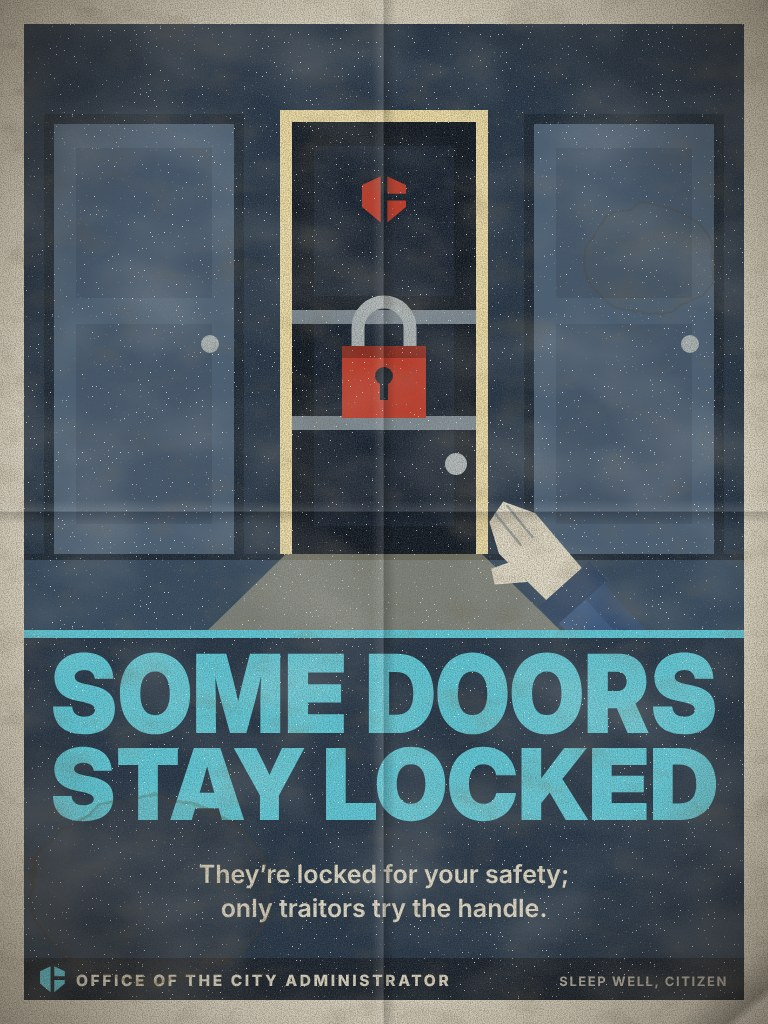
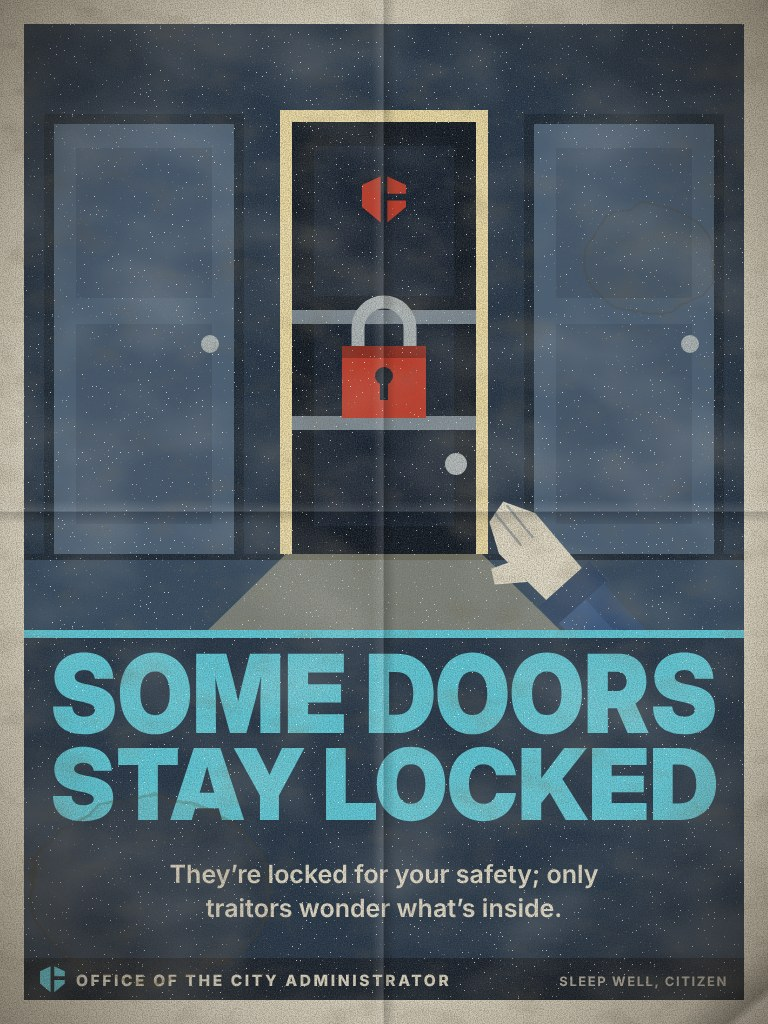
The locked doors poster: the owner's words, "only traitors wonder what's inside", in the code and on the picture
Claude-Session: https://claude.ai/code/session_01Y8SXQmVgVp7ZamRAFg58MA

Changed region(s): [[0.2188, 0.8438, 0.7812, 0.9062]]

diff --git a/PLAYER_TEXT.md b/PLAYER_TEXT.md
@@ -4,9 +4,9 @@ Made by `python3 _dev/player_text.py` from the code itself, so it can be made ag
 
 **How to correct it:** change the words inside the quotes, then send the whole file back. Leave everything outside the quotes as it is (that's how each line is found in the code again). Keep any {name} or %d / %s parts: the game fills those in. A line you don't touch stays as it is. To drop a line altogether, write DELETE inside its quotes. A note for me about a line can go after it on the same line, starting with NOTE:.
 
-Made from version f03ac15. Admin-only console messages and log lines are left out.
+Made from version b5697c2. Admin-only console messages and log lines are left out.
 
-12914 lines, from 355 files.
+12919 lines, from 356 files.
 
 ## Contents
 
@@ -154,6 +154,7 @@ Made from version f03ac15. Admin-only console messages and log lines are left ou
 - [sv_livingcity.lua](#svlivingcitylua-svlivingcitylua) (51)
 - [the actions menu (server side)](#the-actions-menu-server-side-svlivingcityactionslua) (8)
 - [acts (server). See sh_livingcity_acts.lua for the list](#acts-server-see-shlivingcityactslua-for-the-list-svlivingcityactslua) (7)
+- [the hunt for whoever tried to kill the Administrator](#the-hunt-for-whoever-tried-to-kill-the-administrator-svlivingcityadminhuntlua) (5)
 - [the would-be assassin is hers to question (the owner, 16 November)](#the-would-be-assassin-is-hers-to-question-the-owner-16-november-svlivingcityadminquestioninglua) (13)
 - [the Administrator's security (the owner, 15 November)](#the-administrators-security-the-owner-15-november-svlivingcityadminsecuritylua) (8)
 - [testing tools for admins](#testing-tools-for-admins-svlivingcityadmintoolslua) (50)
@@ -5331,81 +5332,81 @@ Made from version f03ac15. Admin-only console messages and log lines are left ou
 
 > Note for you (not shown in game): part of: cop provoked
 
-- "[Civil Protection] The Civil Protection unit shoves you back. Move along."  (chat message, line 2328)
-- "[Civil Protection] A crack across the ribs with the stick. Last warning."  (chat message, line 2329)
-- "[Civil Protection] You were warned. Obstructing Civil Protection."  (chat message, line 2333)
-- "Obstructing Civil Protection"  (text, line 2334)
+- "[Civil Protection] The Civil Protection unit shoves you back. Move along."  (chat message, line 2487)
+- "[Civil Protection] A crack across the ribs with the stick. Last warning."  (chat message, line 2488)
+- "[Civil Protection] You were warned. Obstructing Civil Protection."  (chat message, line 2492)
+- "Obstructing Civil Protection"  (text, line 2493)
 
 > Note for you (not shown in game): A city scanner that has a fugitive in sight (wanted, or a hunted rebel who isn't passing as a citizen) tells the units where they are: a flash, a report to every unit on duty, and the nearby units come after them.
 
-- "a wanted citizen"  (text, line 2491)
+- "a wanted citizen"  (text, line 2650)
 
 > Note for you (not shown in game): part of: scanner tip off
 
-- "A scanner's flash. You've been photographed, and Civil Protection has the picture."  (chat message, line 2496)
-- "[CP net] Scanner report: %s%s."  (message, line 2500)
+- "A scanner's flash. You've been photographed, and Civil Protection has the picture."  (chat message, line 2655)
+- "[CP net] Scanner report: %s%s."  (message, line 2659)
 
 > Note for you (not shown in game): part of: start
 
-- "This map has no AI nodes or navmesh and nothing placed yet. Lay some path nodes or points with the Miscount Editor, then start again."  (chat message, line 2736)
-- "Started. Map nav: %d spots (%s). Your layout: %d points, %d path nodes."  (message, line 2743)
+- "This map has no AI nodes or navmesh and nothing placed yet. Lay some path nodes or points with the Miscount Editor, then start again."  (chat message, line 2895)
+- "Started. Map nav: %d spots (%s). Your layout: %d points, %d path nodes."  (message, line 2902)
 
 > Note for you (not shown in game): part of: stop
 
-- "Stopped and removed all Miscount NPCs."  (chat message, line 2760)
+- "Stopped and removed all Miscount NPCs."  (chat message, line 2919)
 
 > Note for you (not shown in game): part of: spawn test walker
 
-- "your path network (%d hops)"  (message, line 2789)
-- "the map's own navigation"  (text, line 2789)
-- "Test walker heading out using {how}."  (chat message, line 2790)
+- "your path network (%d hops)"  (message, line 2948)
+- "the map's own navigation"  (text, line 2948)
+- "Test walker heading out using {how}."  (chat message, line 2949)
 
 > Note for you (not shown in game): part of: test arrived
 
-- "Test walker arrived in %.1f seconds. This route works."  (message, line 2795)
+- "Test walker arrived in %.1f seconds. This route works."  (message, line 2954)
 
 > Note for you (not shown in game): part of: test stuck
 
-- "Test walker stuck at %s on hop %d/%d"  (message, line 2802)
-- "Test walker got stuck after %.1f seconds, on hop %d of %d (marked red)."  (message, line 2803)
-- "Add a path node here and link it toward the destination, or check for a door it can't open."  (text, line 2806)
+- "Test walker stuck at %s on hop %d/%d"  (message, line 2961)
+- "Test walker got stuck after %.1f seconds, on hop %d of %d (marked red)."  (message, line 2962)
+- "Add a path node here and link it toward the destination, or check for a door it can't open."  (text, line 2965)
 
 > Note for you (not shown in game): guarding a supply drop (sv_livingcity_convoy.lua): he answers, without leaving his post
 
-- "[Civil Protection] "Supply point secure. Hold the perimeter until the load moves on.""  (chat message, line 3034)
+- "[Civil Protection] "Supply point secure. Hold the perimeter until the load moves on.""  (chat message, line 3194)
 
 > Note for you (not shown in game): pressing E on something
 
-- "[Civil Protection] "{Pick}""  (chat message, line 3038)
+- "[Civil Protection] "{Pick}""  (chat message, line 3198)
 
 > Note for you (not shown in game): a Civil Protection player stops a citizen: they freeze and apologise
 
-- "[Civil Protection] Stopped. With the Arrest Baton out: R to search them, right click to detain."  (chat message, line 3056)
+- "[Civil Protection] Stopped. With the Arrest Baton out: R to search them, right click to detain."  (chat message, line 3216)
 
 > Note for you (not shown in game): a crime, and every cop comes for you (a scanner is city property, not a person) (one report per few seconds for a scanner: every bullet of a burst isn't a new offence)
 
-- "Damaging city property"  (text, line 3113)
-- "Assaulting Civil Protection"  (text, line 3116)
-- "Assaulting a citizen"  (text, line 3116)
+- "Damaging city property"  (text, line 3273)
+- "Assaulting Civil Protection"  (text, line 3276)
+- "Assaulting a citizen"  (text, line 3276)
 
 > Note for you (not shown in game): Console commands
 
-- "Civil Protection has stood down."  (chat message, line 3152)
+- "Civil Protection has stood down."  (chat message, line 3312)
 
 > Note for you (not shown in game): the console command lc_addpoint
 
-- "Kinds: idle, sit, sitchair, lean, queue, patrol, checkpoint, spawn, cell, release"  (chat message, line 3159)
-- "Added %s point (%d total on this map)."  (message, line 3162)
+- "Kinds: idle, sit, sitchair, lean, queue, patrol, checkpoint, spawn, cell, release"  (chat message, line 3319)
+- "Added %s point (%d total on this map)."  (message, line 3322)
 
 > Note for you (not shown in game): the console command lc_removepoint
 
-- "Removed nearest {kind} point."  (text, line 3168)
-- "No point within 150 Civil Protection units."  (chat message, line 3168)
+- "Removed nearest {kind} point."  (text, line 3328)
+- "No point within 150 Civil Protection units."  (chat message, line 3328)
 
 > Note for you (not shown in game): the console command lc_status
 
-- "citizens %d/%d, cops %d/%d, soldiers %d/%d, scanners %d/%d, zombies %d/%d, rebels %d/%d"  (message, line 3179)
-- "map nav %d (%s) \| points %d \| path nodes %d, links %d, unlinked %d \| zones %d \| lines %d \| patrol beats %d"  (message, line 3183)
+- "citizens %d/%d, cops %d/%d, soldiers %d/%d, scanners %d/%d, zombies %d/%d, rebels %d/%d"  (message, line 3339)
+- "map nav %d (%s) \| points %d \| path nodes %d, links %d, unlinked %d \| zones %d \| lines %d \| patrol beats %d"  (message, line 3343)
 
 ## the actions menu (server side) (sv_livingcity_actions.lua)
 
@@ -5446,6 +5447,25 @@ Made from version f03ac15. Admin-only console messages and log lines are left ou
 > Note for you (not shown in game): the chat command /act
 
 - "Poses: /sit /kneel /lie /lean /cower /pose 1-4 (/stand to get up). Gestures: /wave /salute /bow /nod /shake /point /beckon /halt /cheer /laugh"  (chat message, line 113)
+
+## the hunt for whoever tried to kill the Administrator (sv_livingcity_adminhunt.lua)
+
+`gamemodes/livingcity/gamemode/modules/server/sv_livingcity_adminhunt.lua`
+
+
+> Note for you (not shown in game): part of: admin hunt send
+
+- "Hunt for %s: a squad of %d sent to %s"  (message, line 227)
+- "a Resistance hideout"  (message, line 228)
+- "where they were last seen"  (message, line 228)
+
+> Note for you (not shown in game): (walking a prisoner in, standing over one cuffed on the street, or in a fight: when that is done)
+
+- "a squad of the hunt for the Administrator's attacker going back"  (text, line 264)
+
+> Note for you (not shown in game): part of: start hunt
+
+- "Dispatch: all units, {Name} tried to kill the Administrator. Overwatch is hunting them. Take them alive."  (text, line 315)
 
 ## the would-be assassin is hers to question (the owner, 16 November) (sv_livingcity_adminquestioning.lua)
 
@@ -9040,7 +9060,7 @@ Made from version f03ac15. Admin-only console messages and log lines are left ou
 - "Every wasted minute is stolen from your fellow citizens."  (text, line 69)
 - "Groups will be dispersed; drink your tea at home."  (text, line 70)
 - "The scanners keep you safe; a loyal citizen has nothing to hide."  (text, line 71)
-- "They're locked for your safety; only traitors try the handle."  (text, line 72)
+- "They're locked for your safety; only traitors wonder what's inside."  (text, line 72)
 - "Respect your neighbours' rest; noise complaints are investigated."  (text, line 73)
 - "When an officer tells you to pick it up, you pick it up."  (text, line 74)
 
@@ -14702,7 +14722,7 @@ Made from version f03ac15. Admin-only console messages and log lines are left ou
 
 > Note for you (not shown in game): part of: learn ladder
 
-- "Learned a ladder (#%d) from a climb: %s up to %s"  (message, line 639)
+- "Learned a ladder (#%d) from a climb: %s up to %s"  (message, line 641)
 
 ## what now? (sv_livingcity_nextstep.lua)
 
